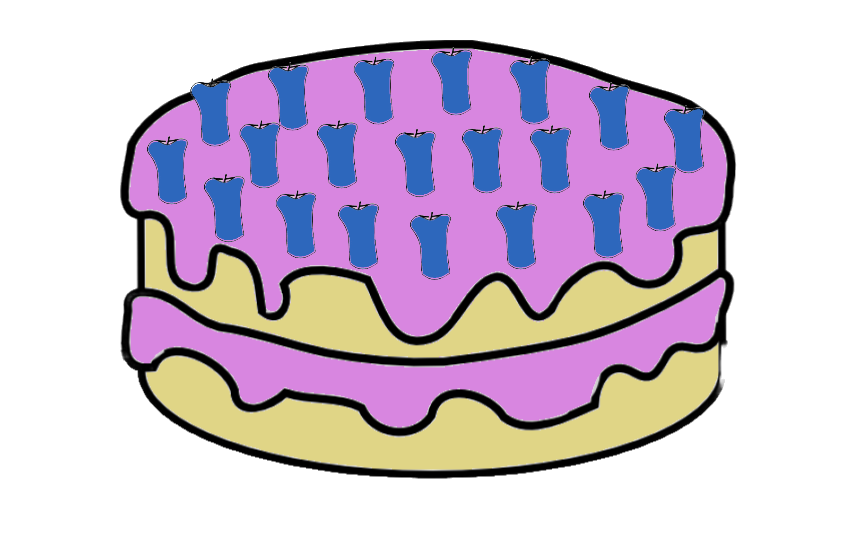
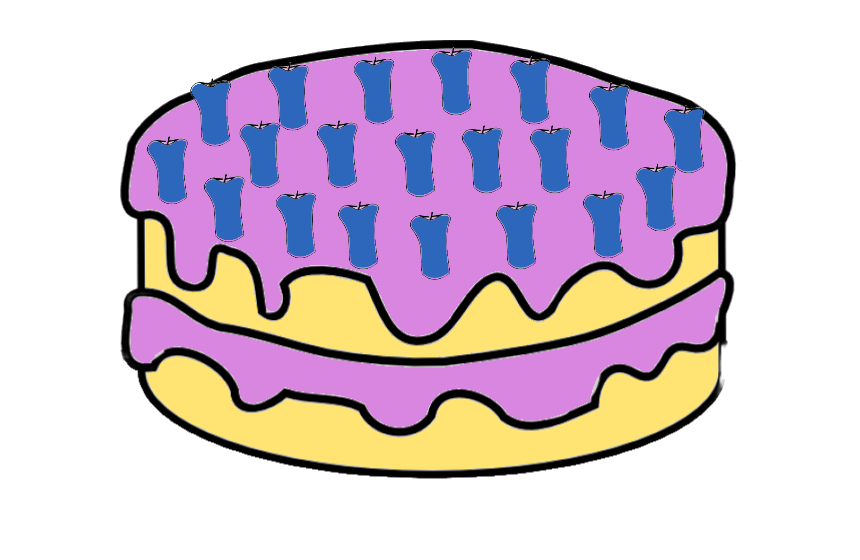
Added background, cake color change

Changed region(s): [[0.1512, 0.6071, 0.8465, 0.85], [0.1512, 0.3946, 0.8465, 0.6375]]

diff --git a/styles.css b/styles.css
@@ -3,12 +3,14 @@ p {
     border-radius : 5px;
     padding : 35px;
     box-shadow : 5px 5px #888888;
+    background-color: #ffffff;
 }
 
 body {
     font-family: Arial, sans-serif;
     text-align: center;
     background-color: #f9f9f9;
+    background-image: url('pozadina.webp');
     margin: 0;
     padding: 0;
 }
